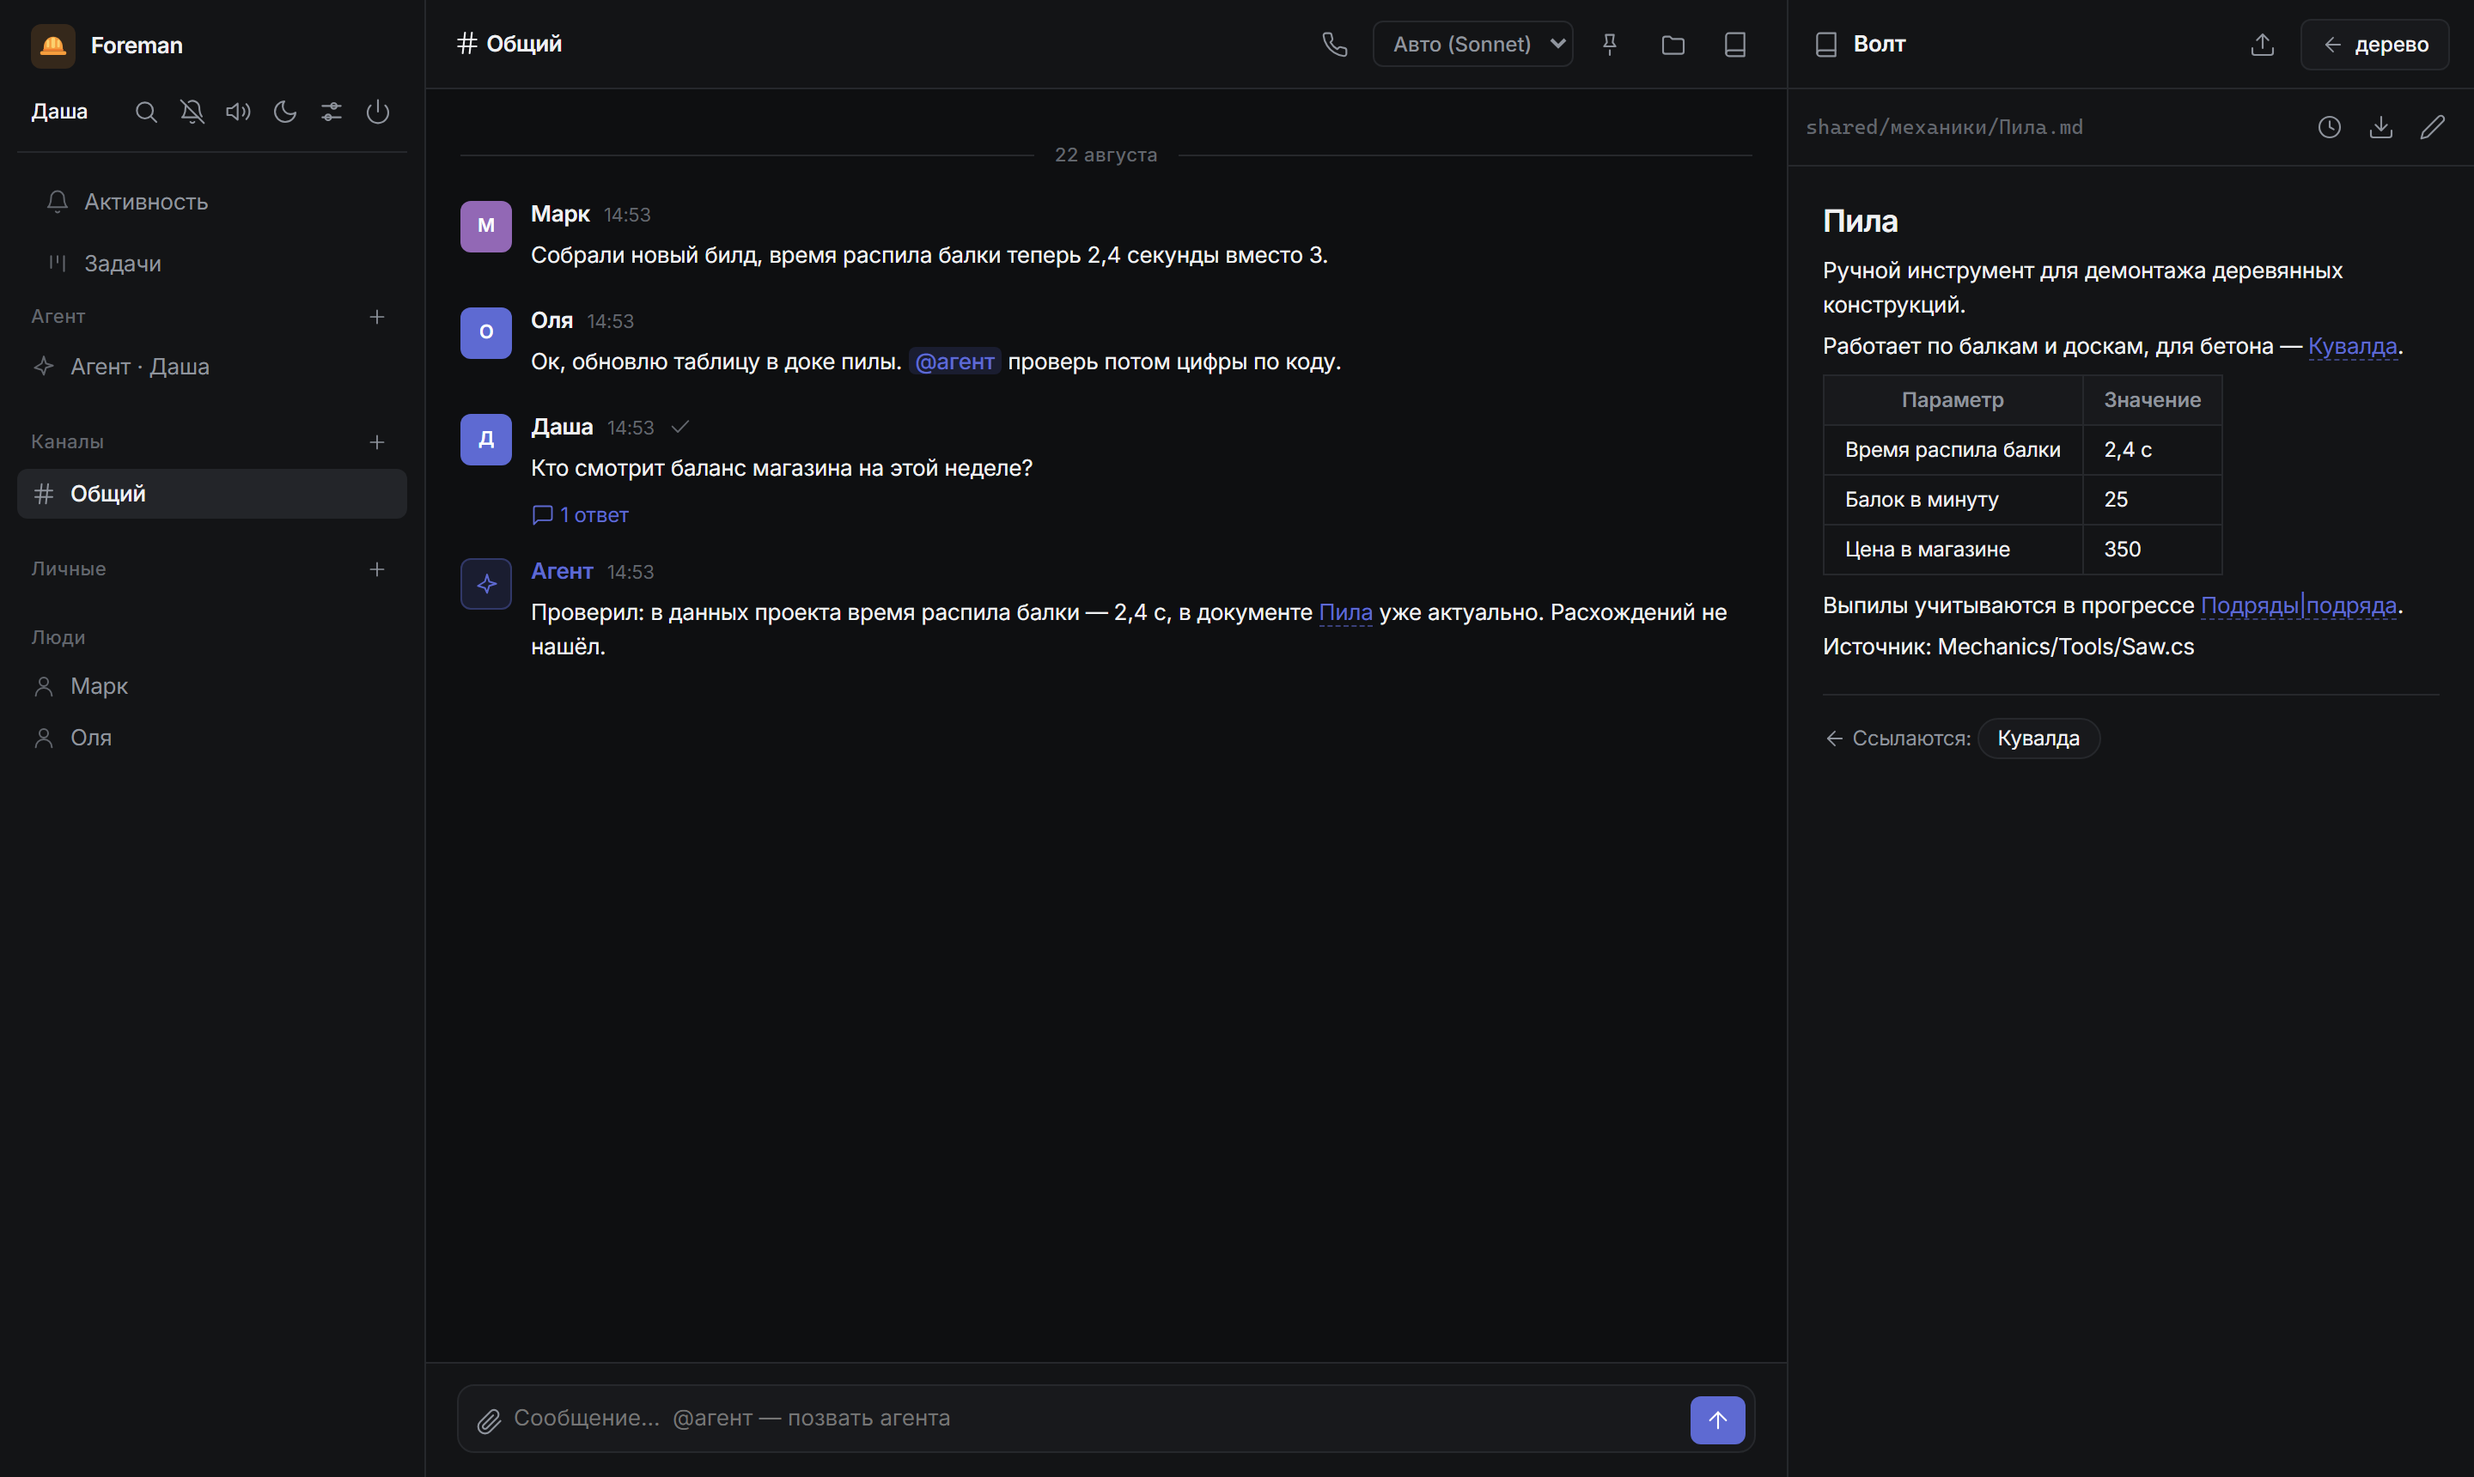
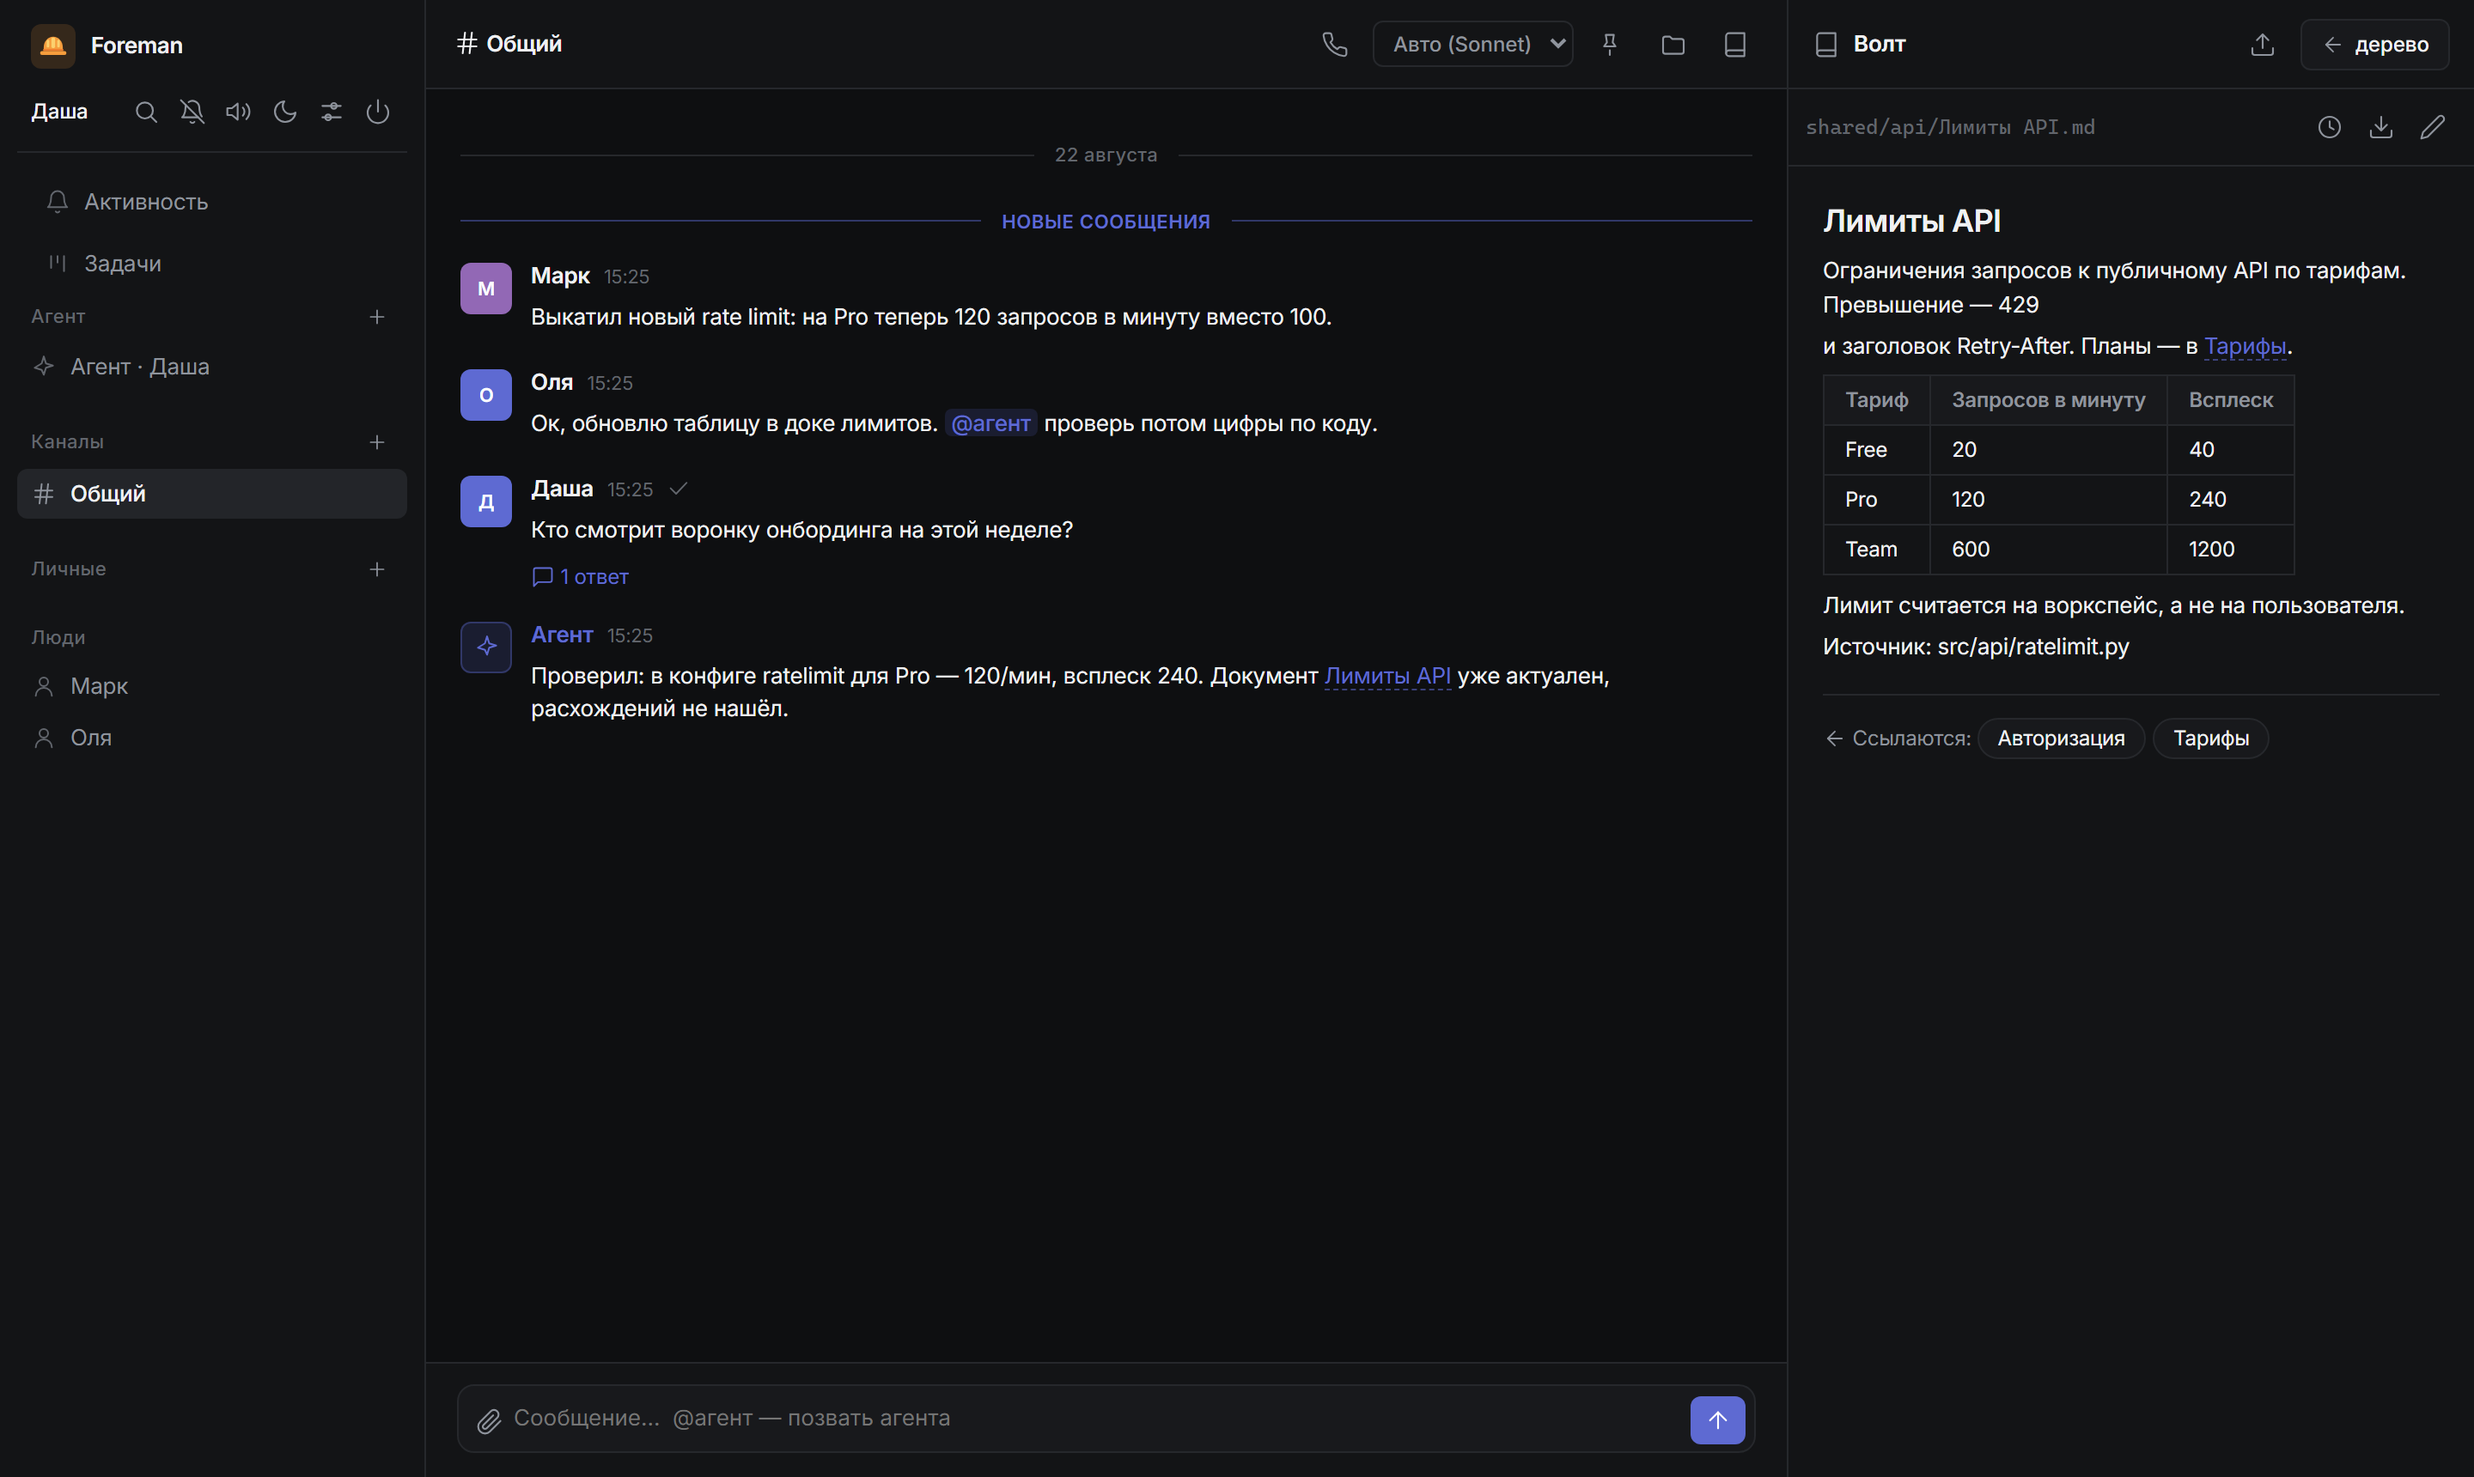
Демо и скриншоты: пример из веб-разработки вместо игрового (#48)

diff --git a/tools/demo_seed.py b/tools/demo_seed.py
@@ -54,32 +54,55 @@ def agent_msg(conn, chat_id, text):
 
 def seed_vault():
     shared = vaultlib.VAULT / "shared"
-    (shared / "механики").mkdir(parents=True, exist_ok=True)
-    (shared / "экономика").mkdir(parents=True, exist_ok=True)
-    (vaultlib.VAULT / "PROJECT.md").write_text(
-        "# Профиль проекта\n\n## О чём проект\n\n"
-        "Кооперативная игра про ремонтную бригаду: игроки берут подряды,\n"
-        "сносят старое и строят новое. Ключевые сущности: инструмент, подряд,\n"
-        "общий банк, магазин.\n", encoding="utf-8")
-    (shared / "механики" / "Пила.md").write_text(
-        "# Пила\n\nРучной инструмент для демонтажа деревянных конструкций.\n"
-        "Работает по балкам и доскам, для бетона — [[Кувалда]].\n\n"
-        "| Параметр | Значение |\n|---|---|\n"
-        "| Время распила балки | 2,4 с |\n| Балок в минуту | 25 |\n"
-        "| Цена в магазине | 350 |\n\n"
-        "Выпилы учитываются в прогрессе [[Подряды|подряда]].\n\n"
-        "Источник: Mechanics/Tools/Saw.cs\n", encoding="utf-8")
-    (shared / "механики" / "Кувалда.md").write_text(
-        "# Кувалда\n\nТяжёлый инструмент для бетона и кирпича. Медленнее\n"
-        "[[Пила|пилы]], но бьёт по площади.\n\n"
-        "| Параметр | Значение |\n|---|---|\n| Урон за удар | 40 |\n"
-        "| Радиус | 1,5 м |\n", encoding="utf-8")
-    (shared / "экономика" / "Подряды.md").write_text(
-        "# Подряды\n\nОсновной источник дохода бригады. Подряд — это объект,\n"
-        "список работ и срок. Оплата падает в [[Общий банк]].\n", encoding="utf-8")
-    (shared / "экономика" / "Общий банк.md").write_text(
-        "# Общий банк\n\nОбщие деньги бригады: сюда падает оплата подрядов,\n"
-        "отсюда оплачиваются инструменты в магазине.\n", encoding="utf-8")
+    (shared / "фичи").mkdir(parents=True, exist_ok=True)
+    (shared / "api").mkdir(parents=True, exist_ok=True)
+    (vaultlib.VAULT / "PROJECT.md").write_text("""# Профиль проекта
+
+## О чём проект
+
+B2B-сервис аналитики: веб-приложение (FastAPI + React). Ключевые
+сущности: воркспейс, отчёт, дашборд, тариф. Готовим публичный API.
+""", encoding="utf-8")
+    (shared / "api" / "Лимиты API.md").write_text("""# Лимиты API
+
+Ограничения запросов к публичному API по тарифам. Превышение — 429
+и заголовок Retry-After. Планы — в [[Тарифы]].
+
+| Тариф | Запросов в минуту | Всплеск |
+|---|---|---|
+| Free | 20 | 40 |
+| Pro | 120 | 240 |
+| Team | 600 | 1200 |
+
+Лимит считается на воркспейс, а не на пользователя.
+
+Источник: src/api/ratelimit.py
+""", encoding="utf-8")
+    (shared / "фичи" / "Тарифы.md").write_text("""# Тарифы
+
+Три плана; апгрейд мгновенный, даунгрейд — со следующего периода.
+Ограничения API — в [[Лимиты API]].
+
+| План | Цена | Дашбордов | Участников |
+|---|---|---|---|
+| Free | 0 | 3 | 2 |
+| Pro | $29 | 30 | 10 |
+| Team | $99 | без лимита | 50 |
+""", encoding="utf-8")
+    (shared / "фичи" / "Авторизация.md").write_text("""# Авторизация
+
+Вход по magic-link на почту и через Google OAuth. Пароль не храним вовсе.
+
+| Параметр | Значение |
+|---|---|
+| TTL сессии | 30 дней |
+| TTL magic-link | 15 минут |
+| Попыток ввода кода | 5 |
+
+Лимиты на эндпоинты входа — общие, см. [[Лимиты API]].
+
+Источник: src/api/auth.py
+""", encoding="utf-8")
 
 
 def main() -> int:
@@ -98,21 +121,21 @@ def main() -> int:
 
     ch = store.create_channel(conn, demo, "Общий", False,
                               [mark["id"], olya["id"]])
-    msg(conn, ch["id"], mark, "Собрали новый билд, время распила балки теперь 2,4 секунды вместо 3.")
-    msg(conn, ch["id"], olya, "Ок, обновлю таблицу в доке пилы. @агент проверь потом цифры по коду.")
-    root = msg(conn, ch["id"], demo, "Кто смотрит баланс магазина на этой неделе?")
-    msg(conn, ch["id"], mark, "Я возьму, после подрядов.", thread_root_id=root["id"])
+    msg(conn, ch["id"], mark, "Выкатил новый rate limit: на Pro теперь 120 запросов в минуту вместо 100.")
+    msg(conn, ch["id"], olya, "Ок, обновлю таблицу в доке лимитов. @агент проверь потом цифры по коду.")
+    root = msg(conn, ch["id"], demo, "Кто смотрит воронку онбординга на этой неделе?")
+    msg(conn, ch["id"], mark, "Я возьму, после релиза API.", thread_root_id=root["id"])
     agent_msg(conn, ch["id"],
-              "Проверил: в данных проекта время распила балки — 2,4 с, в документе "
-              "[[Пила]] уже актуально. Расхождений не нашёл.")
+              "Проверил: в конфиге ratelimit для Pro — 120/мин, всплеск 240. "
+              "Документ [[Лимиты API]] уже актуален, расхождений не нашёл.")
 
-    store.kanban_create(conn, "Ребаланс цен магазина", body="Пройтись по ценам "
-                        "инструментов после изменения доходности подрядов.",
+    store.kanban_create(conn, "Пересмотреть тарифную сетку", body="Сравнить "
+                        "лимиты с конкурентами и обновить [[Тарифы]].",
                         column="doing", actor_name="Даша", created_by=demo["id"],
                         priority="high")
-    store.kanban_create(conn, "Док по новому инструменту", column="todo",
+    store.kanban_create(conn, "Док по вебхукам", column="todo",
                         actor_name="Оля", created_by=olya["id"])
-    store.kanban_create(conn, "Обновить таблицу пилы", column="done",
+    store.kanban_create(conn, "Обновить таблицу лимитов API", column="done",
                         actor_name="Марк", created_by=mark["id"])
 
     conn.close()
